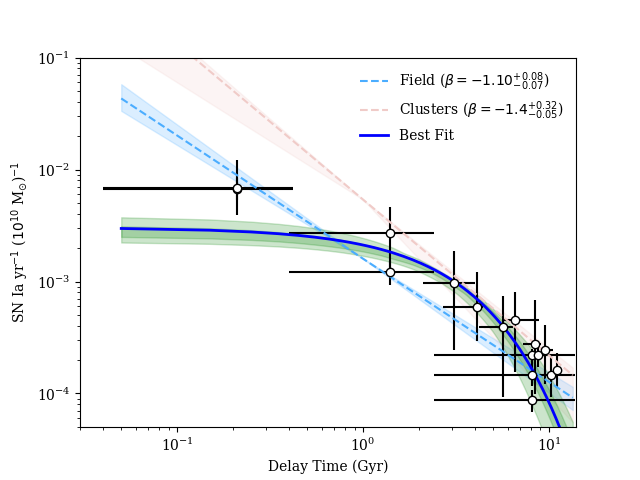
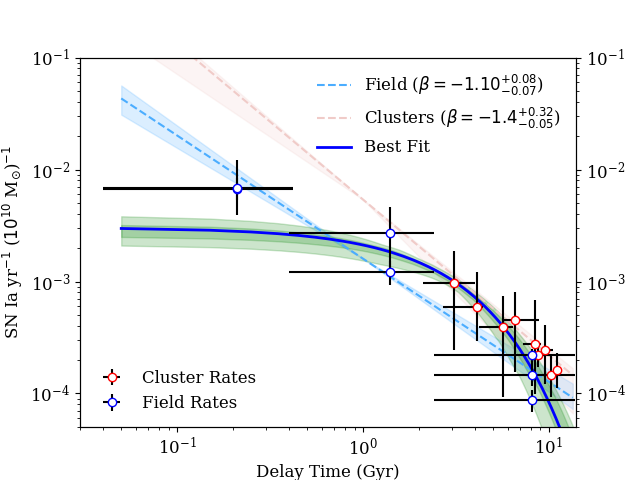
modified:   figure_loglog_dtd.png 	modified:   maoz_table2.txt 	modified:   plot_loglog_dtd.py

diff --git a/analysis/scripts/plot_loglog_dtd.py b/analysis/scripts/plot_loglog_dtd.py
@@ -6,11 +6,12 @@ from strolger_util import rates_z as rz
 from scipy.optimize import curve_fit
 from scipy.stats import chisquare
 import pickle
+rcParams['font.size']=12.0
 
 
 scale = (0.0210)*0.062*(0.7)**2
 ax = subplot(111)
-
+ax2 = ax.twinx()
 
 p0 = [-1257.93, 59.32, 248.88] ## from MCMC
 
@@ -57,10 +58,16 @@ ax.plot(time,rz.powerdtd(time, *pwrl, normed=False)*(5.4e-3), '--', color=color,
 
 data = loadtxt('maoz_table2.txt')
 msc = 1.0e-4*0.7**2
-ax.errorbar(data[:,0], data[:,3]*msc,
-            xerr=[-1*data[:,1],data[:,2]],
-            yerr=[-1*data[:,4]*msc,data[:,5]*msc],
-            fmt='o', color='k', mfc='1.0')
+idx = where(data[:,6]==1)
+ax2.errorbar(data[idx][:,0], data[idx][:,3]*msc,
+            xerr=[-1*data[idx][:,1],data[idx][:,2]],
+            yerr=[-1*data[idx][:,4]*msc,data[idx][:,5]*msc],
+            fmt='o', color='k', mfc='1.0', mec='red', label='Cluster Rates')
+idx = where(data[:,6]==0)
+ax2.errorbar(data[idx][:,0], data[idx][:,3]*msc,
+            xerr=[-1*data[idx][:,1],data[idx][:,2]],
+            yerr=[-1*data[idx][:,4]*msc,data[idx][:,5]*msc],
+            fmt='o', color='k', mfc='1.0', mec='blue', label='Field Rates')
 
 
 
@@ -101,9 +108,12 @@ ax.set_ylabel(r'SN Ia yr$^{-1}$ ($10^{10}$ M$_{\odot}$)$^{-1}$')
 ax.set_xlabel('Delay Time (Gyr)')
 ax.set_xlim(0.03, 14)
 ax.set_ylim(5e-5,0.1)
-ax.legend(frameon=False)
+ax2.set_ylim(5e-5,0.1)
+ax.legend(loc=1,frameon=False)
+ax2.legend(loc=3,frameon=False)
 ax.set_xscale('log')
 ax.set_yscale('log')
+ax2.set_yscale('log')
 
 savefig('figure_loglog_dtd.png')
 ##show()
